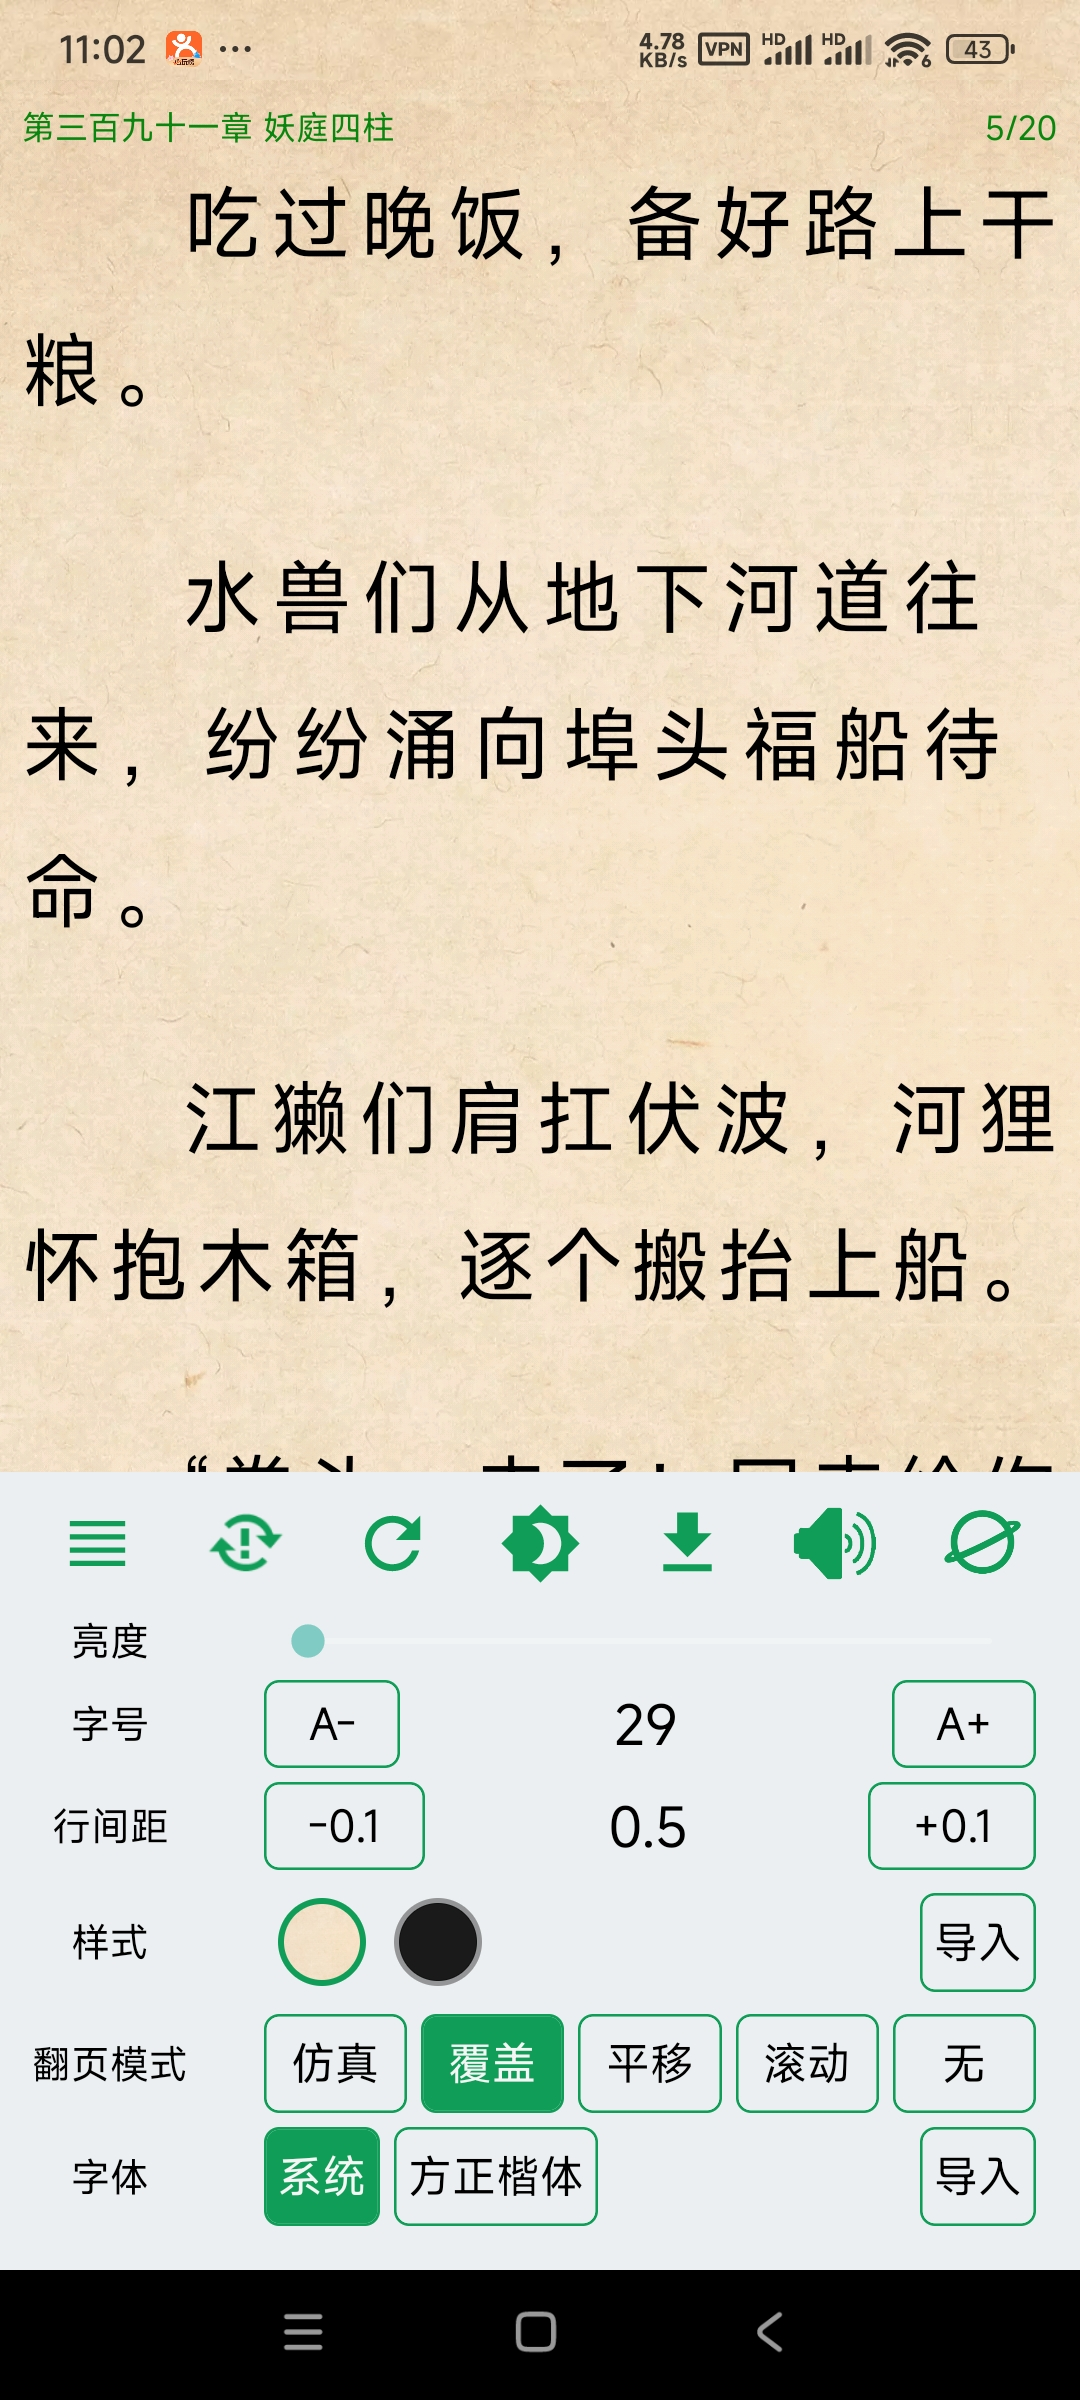
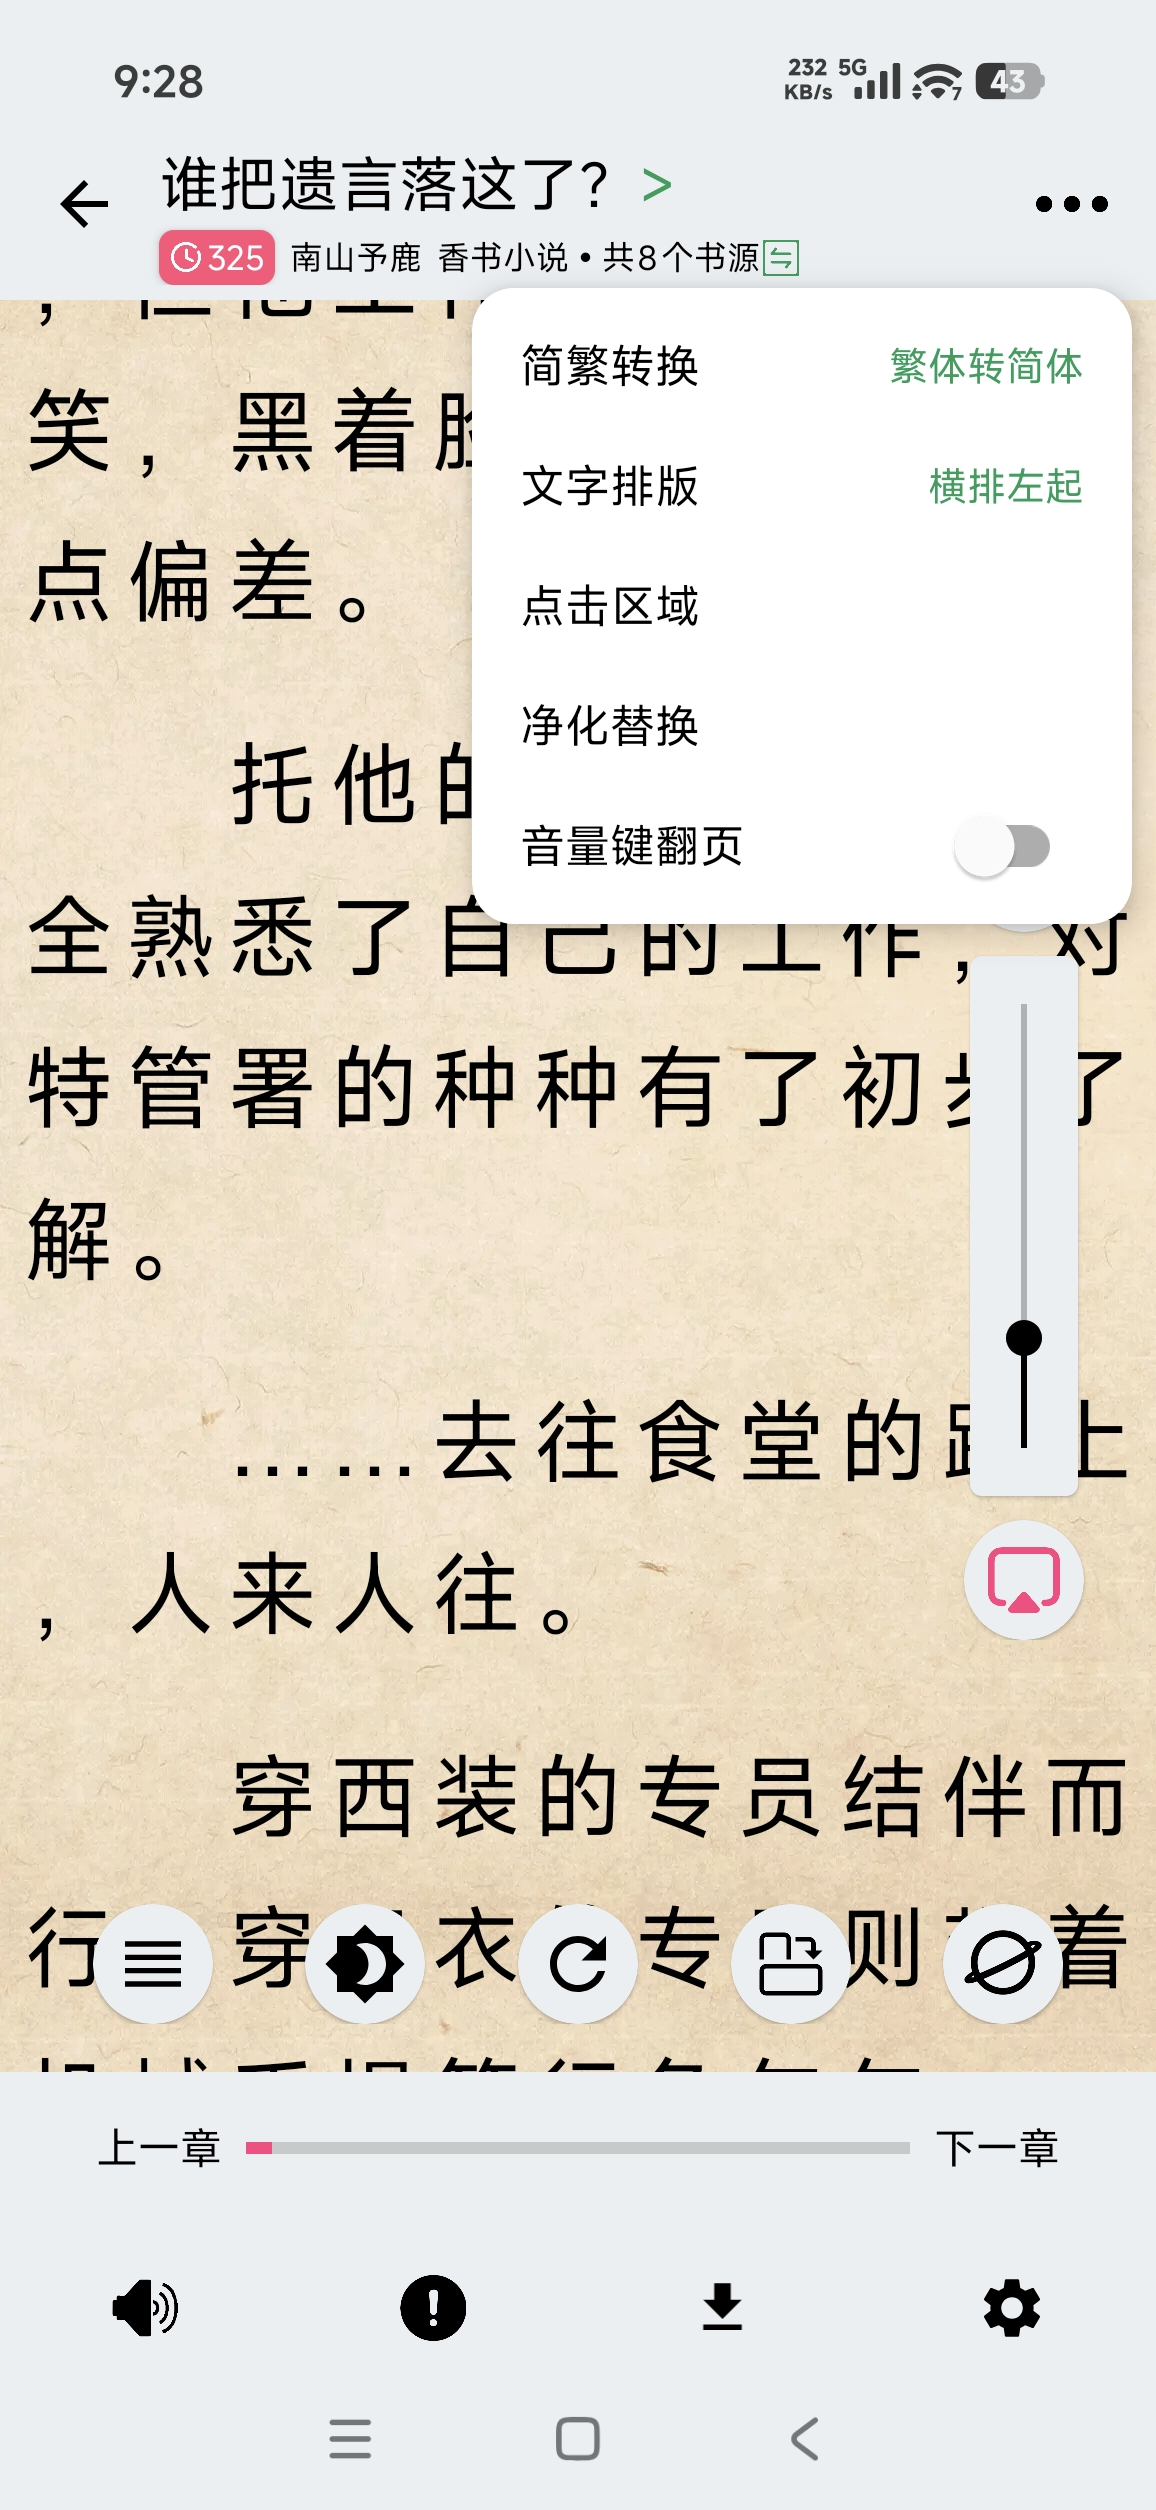
修改书源地址

diff --git a/app/src/main/java/com/sjianjun/reader/Constants.kt b/app/src/main/java/com/sjianjun/reader/Constants.kt
@@ -10,6 +10,6 @@ const val BOOK_AUTO_REFRESH = "BOOK_AUTO_REFRESH"
 
 const val URL_REPO = "https://github.com/SJJ-dot/Reader"
 val URL_BOOK_SOURCE_DEF = SourceUrl(
-    "https://raw.githubusercontent.com/SJJ-dot/Reader/BookSource/test/BookSource/default.json.gzip",
+    "https://cdn.jsdelivr.net/gh/SJJ-dot/Reader@BookSource/test/BookSource/default.json.gzip",
     "修仙书源"
 )

diff --git a/README.md b/README.md
@@ -1,4 +1,11 @@
-## 免费网络小说阅读器📖，支持自定义书源(Python🐍)
+## 「修仙」是开发者为了自己看小说更舒服开发的一款小说阅读器📖
+
+## 书源
+* 书源支持：修仙书源、兼容阅读3.0书源规则
+* 修仙书源使用Python编写可独立运行，相对于阅读3.0书源编写更简单，更方便使用AI辅助编写
+* 推荐使用PyCharm来进行书源编写，需要cookie的书源编写需要在手机安装APP后打开测试接口开关
+* [书源制作教程](https://github.com/SJJ-dot/Reader/blob/BookSource/README.MD)
+* 
 ## 如果喜欢就动动小手点个star吧😁😁😁😁
 
 | <img src="img/01.jpg" width = "180" height = "360"/> | <img src="img/02.jpg" width = "180" height = "360"/> | <img src="img/10.jpg" width = "180" height = "360"/> |
@@ -6,12 +13,5 @@
 | <img src="img/3.jpg" width = "180" height = "360"/>  | <img src="img/4.jpg" width = "180" height = "360"/>  | <img src="img/9.jpg" width = "180" height = "360"/>  |
 | <img src="img/5.jpg" width = "180" height = "360"/>  | <img src="img/6.jpg" width = "180" height = "360"/>  | <img src="img/8.jpg" width = "180" height = "360"/>  |
 
-[历史版本更新说明](CHANGELOG.md)
-
 [Releases](https://github.com/SJJ-dot/Reader/releases)
-
-## 书源
-* 书源语言支持：Python🐍
-* 推荐使用PyCharm 来进行书源编写，需要cookie的书源编写需要在手机安装APP后打开测试接口开关
-* [书源制作教程](https://github.com/SJJ-dot/Reader/blob/BookSource/README.MD)
 

diff --git a/CHANGELOG.md b/CHANGELOG.md
@@ -1,3 +1,2 @@
 更新介绍：
-1. TXT导入功能优化
-2. 新增阅读3.0网络小说书源支持
+1. 使用JsDelivr加速书源加载
